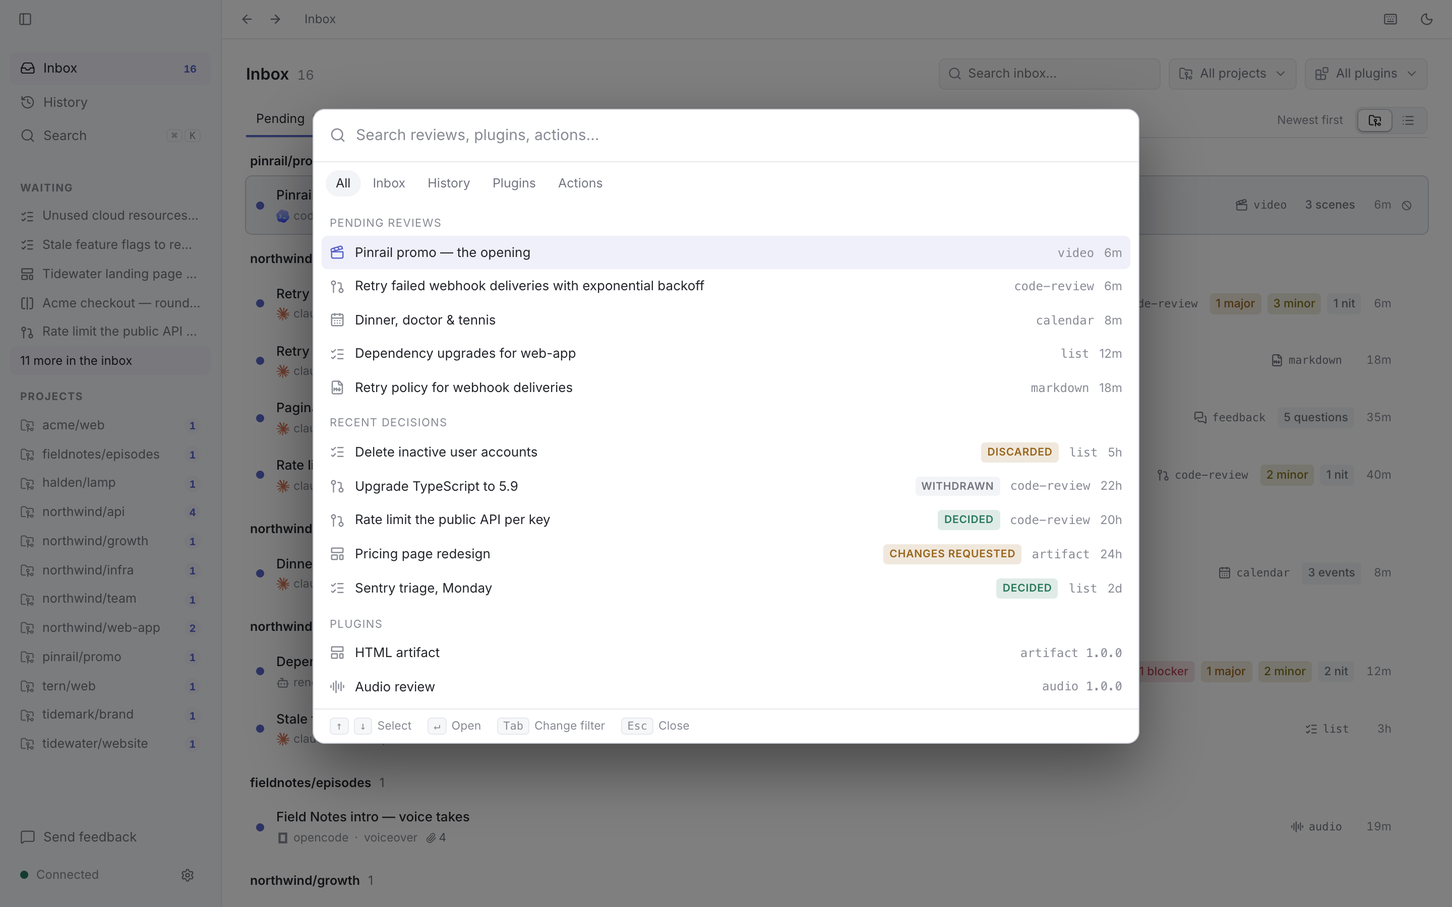
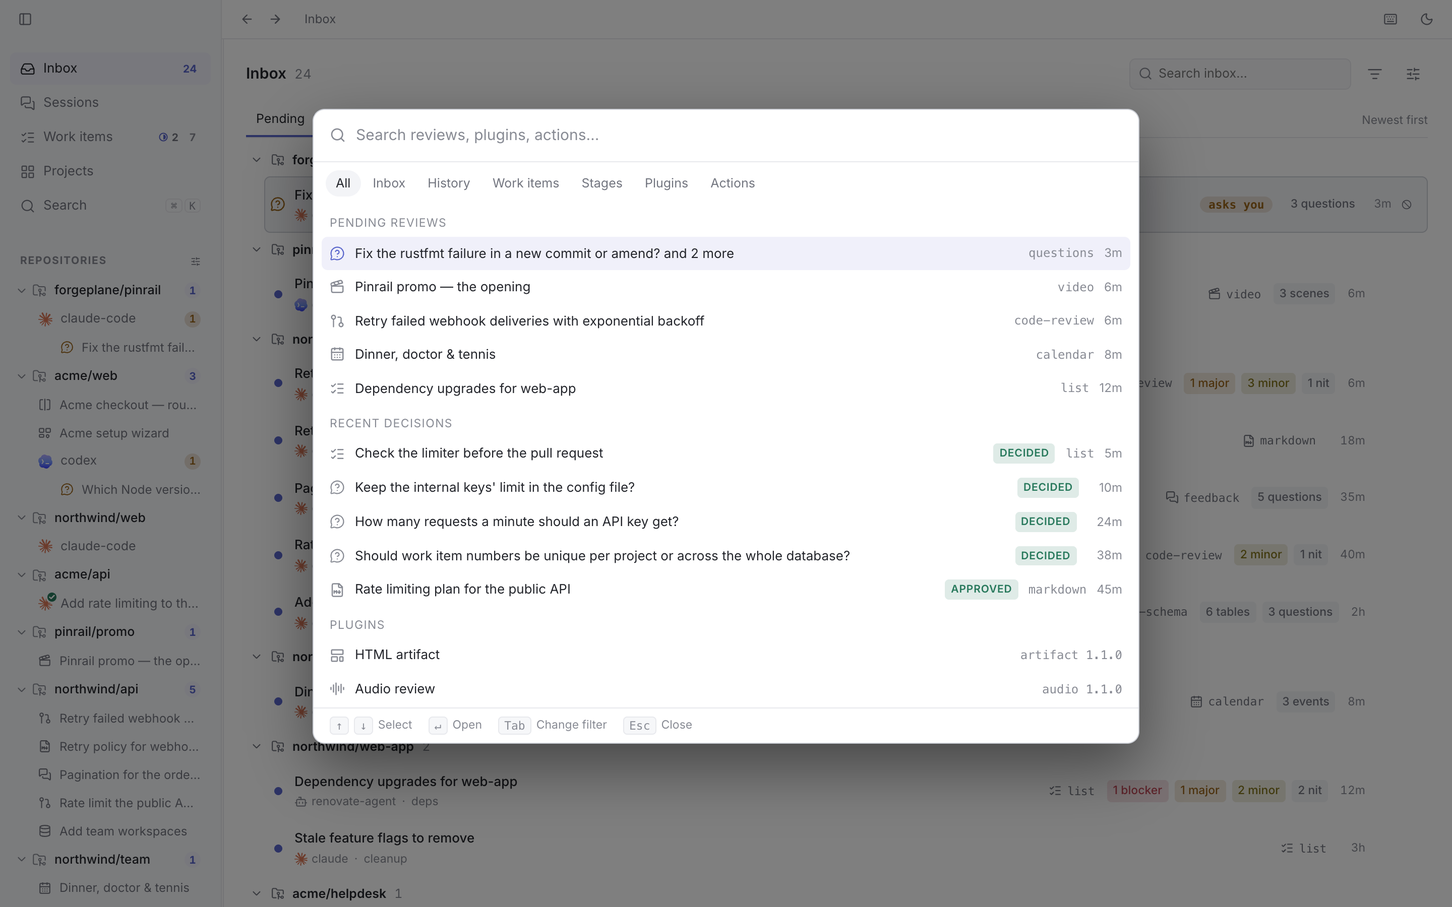
Document sessions and work items as concepts
Add Sessions and Work items to the docs' Concepts, a section on
questions to the Reviews page, the quick add dialog and a session's
details to the how-to pages, and the screenshots they show. The sample
session gains a plan stage, a question about a diff and decided reviews.

The CLI page no longer says the person can message an agent from its
thread: messages come from comments on the work items a session holds.

Assisted-by: Claude Code (Claude Opus 5.5)

diff --git a/docs/using/work-items.md b/docs/using/work-items.md
@@ -3,7 +3,7 @@ title: Work items
 description: "Record the tasks you and your agents work on, with sub-items and dependencies, and let agents take the next one that is ready."
 ---
 
-A work item is a task recorded in Pinrail, such as a feature, a bug or a step of a plan. You add work items in the app, and agents add, take and close them with `pinrail items`. Each item belongs to a repository, and can have sub-items and depend on other items. Pinrail works out which items are ready, so that an agent can take the next one without asking you.
+A work item is a task recorded in Pinrail, such as a feature, a bug or a step of a plan. You add work items in the app, and agents add, take and close them with `pinrail items`. Each item belongs to a repository, and can have sub-items and depend on other items. Pinrail works out which items are ready, so that an agent can take the next one without asking you. [Work items](/docs/concepts/work-items/), under Concepts, explains how items, sessions and reviews connect.
 
 ## Keys
 
@@ -30,7 +30,7 @@ Open **Work items** in the sidebar. The count beside it is the number of items t
 
 ![The Work items page: a plan nested under its item, with one step done, one in progress and two waiting for it, and the step in progress open in the panel beside the list.](screenshot:work-items "Work items, with one open in the panel.")
 
-- **Add an item** with the field at the top of the page, or press <kbd>C</kbd>. Type its title, and choose its repository and, if you like, its parent. Press <kbd>Enter</kbd> to add it. From any other page, press <kbd>⌘⇧C</kbd>, or choose *Add a work item* in the command palette, to add one in a dialog without leaving the page. The dialog starts on the repository of the session or the review you are looking at, and a message names the item once it is added. <kbd>⌘Enter</kbd> adds it and keeps the dialog open for the next one.
+- **Add an item** with the field at the top of the page, or press <kbd>C</kbd>. Type its title, and choose its repository and, if you like, its parent. Press <kbd>Enter</kbd> to add it. From any other page, use the [quick add dialog](#add-an-item-from-any-page).
 - **Filter** the list with the **Filter** menu at the right of the header: by status, by a project or a repository, and by who created the item. *Open* shows the items that are open or in progress, and *Closed sub-items* adds the done and cancelled sub-items of the parents listed, after their open ones. **Waiting on you** shows the items with a review or a question that waits for you. Each filter that is on shows as a chip under the header: click its × to remove it, or **Clear filters** to remove them all. Search titles and descriptions with the search field, or press <kbd>/</kbd> to go to it, and press <kbd>Esc</kbd> to leave it and use the keys on the results. The page keeps its filters when you go to another page and come back.
 - **Display** the list as **Display options** says. *Grouping* groups the items by project or by repository, or shows them as one list. *Ordering* lists them oldest or newest first, recently updated first, by status, or by title, and orders sub-items under their parent the same way. *Sub-items* shows them nested under their parent, or each as a row of its own.
 - **Make an item a sub-item** by dragging it onto another item. An item dropped on an item of another repository stays in its own repository and keeps its key.
@@ -42,6 +42,19 @@ On the selected item, <kbd>S</kbd> claims it for you or releases it, <kbd>D</kbd
 Put an item on hold to keep it without starting it. No agent takes it, nor any of its sub-items: `pinrail items next` passes over them, and an agent that tries to claim one is told to ask you. An item on hold still blocks the items that depend on it. It is listed with the open items, dimmed; choose *On hold* in the status filter to list only the items on hold. Putting an item on hold releases it and each of its sub-items that is in progress, and each agent working on one is told to stop the next time it runs `pinrail status`. When there is such work, Pinrail lists it and asks you first. Only you put an item on hold or take it off.
 
 Queue the items you want done first, in the order you want them. Press <kbd>Q</kbd> on an item, or click *Queue* in its panel, to add it to the end of the queue, and press <kbd>Q</kbd> again to take it out. Each queued item shows the queue icon and its place in its row: press <kbd>⇧↑</kbd> and <kbd>⇧↓</kbd> on a queued item to move it up or down the queue. `pinrail items next` offers the first ready item of the queue in the agent's repository before any other, after the sub-items of what the agent already holds. An item stays queued while an agent works on it, and leaves the queue when it is done, cancelled or put on hold. There is one queue across all your repositories, and only you change it.
+
+## Add an item from any page
+
+When something comes up while you read a review or follow a session, add it as a work item without leaving the page. Press <kbd>⌘⇧C</kbd>, or choose *Add a work item* in the command palette, <kbd>⌘K</kbd>.
+
+![The quick add dialog over a session's thread: a title, the repository of the session, no parent yet, and a description that names another item by its key.](screenshot:quick-add "Adding a work item while you follow a session.")
+
+- **Title:** what needs to be done, in one line.
+- **Repository:** the repository of the session or the review you are looking at, else the one the page is filtered to, else the one you used last. Choose another from the list.
+- **Parent:** the item it is part of, if any.
+- **Description:** optional, in Markdown. Paste or drop files to attach them, and type `#` to link another item.
+
+Press <kbd>Enter</kbd> in the title, or click the arrow, to add the item and close the dialog. <kbd>⌘Enter</kbd> adds it and keeps the dialog open for the next one. <kbd>Tab</kbd> moves between the title and the description, and <kbd>⇧Tab</kbd> in the title switches to the next repository. In the description, <kbd>Enter</kbd> starts a new line: <kbd>⌘Enter</kbd> adds the item, and <kbd>⌘⇧Enter</kbd> adds it and keeps the dialog open. A message names the item once it is added, and <kbd>Esc</kbd> closes the dialog without adding anything.
 
 ## An item's panel
 

diff --git a/docs/concepts/work-items.md b/docs/concepts/work-items.md
@@ -1,0 +1,95 @@
+---
+title: Work items
+description: "What a work item is, how it moves from open to done, and how agents, sessions and reviews connect to it."
+---
+
+A work item is a task recorded in Pinrail, such as a feature, a bug or a step of a plan. You and your agents share the same items: you add and arrange them in the app, and agents add, take and close them with `pinrail items`. Pinrail works out which items are ready, so that an agent can take the next one without asking you.
+
+:::tip[Built for agents]
+Work items are not a general task manager. They have no tags, no boards, no deadlines and no priority field. They are task tracking built for agents first: each item has dependencies and sub-items that decide when it can start, and its state changes follow strict rules that Pinrail enforces for agents and people alike. An item cannot be done while a sub-item is open, an agent cannot close an item while a review of it waits for you, and no dependency may close a circle. An agent can therefore work through the items on its own and leave a record you can trust.
+:::
+
+## What a work item holds
+
+| Part | What it is |
+|---|---|
+| **Key** | The repository's prefix and a number, such as `PIN-42`. It names the item everywhere: in the CLI, in commit messages and in any text Pinrail shows. |
+| **Title and description** | What the work is, in Markdown, with any files attached to it, such as screenshots or logs. |
+| **Repository** | The repository the item belongs to, which numbers it. Through the repository, the item belongs to its [project](/docs/using/projects/). |
+| **Parent and sub-items** | An item can be part of a larger one. A parent waits for its sub-items. |
+| **Dependencies** | The items that must be done before this one can start. |
+| **Holder** | The agent session, or you, working on the item now. |
+| **Reviews and questions** | What was sent to you about the item, in the inbox and in the item's panel. |
+| **Comments and activity** | Notes from you and from agents, and every change, with who made it and when. |
+
+## How a work item moves
+
+An item is open until someone claims it, and ends done or cancelled. Either can be opened again. You can also close an open item without claiming it, and putting an item on hold releases it if it was in progress.
+
+```mermaid title="The states of a work item"
+stateDiagram-v2
+  direction LR
+  state "Open" as open
+  state "In progress" as progress
+  state "On hold" as hold
+  state "Done or cancelled" as closed
+  [*] --> open: added
+  open --> progress: claimed
+  progress --> open: released
+  open --> hold: you put it on hold
+  hold --> open: you take it off hold
+  progress --> closed: closed
+  closed --> open: opened again
+```
+
+| State | What it means |
+|---|---|
+| **Open** | Nobody is working on it. |
+| **In progress** | A session, or you, has claimed it. |
+| **On hold** | Kept for later. No agent takes it or any of its sub-items, and only you put it on hold or take it off. |
+| **Done** | The work is finished. |
+| **Cancelled** | It will not be done. Its open sub-items are cancelled with it. |
+
+An item can be marked done only when each of its sub-items is done or cancelled. An agent must also wait until no review or question of the item waits for you. When the last open sub-item of a parent closes, and at least one of them is done, the parent is done too, unless someone works on it or something of it waits for you. You can turn this off in *Settings › Work items*.
+
+## Ready and blocked
+
+Pinrail derives two more conditions from the items' dependencies and sub-items:
+
+- An open item is **ready** when every item it depends on is done and it has no open sub-item.
+- An item that waits for another is **blocked**. A parent is blocked by its open sub-items in the same way.
+
+An item on hold still blocks the items that depend on it. Pinrail refuses a dependency or a parent that would make items wait for each other in a circle.
+
+## Who holds an item
+
+An agent claims an item with `pinrail items next --claim` or `pinrail items edit <key> --claim`, and you claim one in the app.
+
+:::tip[One holder at a time]
+An item has a single holder: one agent session, or you. Nobody can claim an item that someone else is working on. Pinrail refuses the claim and names who holds it, such as *PIN-42 is claimed by claude-code (session 7f3a…)*, and `pinrail items next` offers only items nobody holds. Two agents therefore never work on the same item by accident. Taking an item over is a deliberate step: an agent must ask for it with `pinrail items edit <key> --claim --take`, and you take one over from the app. An agent also cannot close an item that another session holds.
+:::
+
+While a session holds an item:
+
+- the reviews and questions the session sends belong to the item, and a session that holds several names the ones each is for with `--item`;
+- the item's panel lists the session, and the session's thread shows the agent's changes to the item and its comments on it;
+- a comment you add to the item reaches the agent the next time it runs `pinrail status`.
+
+Putting an item on hold releases it and its sub-items, and each agent working on one is told to stop. A session that Pinrail deletes with the history, as *Keep reviews for* in *Settings › Data* says, releases what it held.
+
+## Which item comes next
+
+`pinrail items next` offers the next ready item of the agent's repository, in this order:
+
+1. a ready sub-item of an item the session already holds;
+2. the first ready item of your queue;
+3. the item that unblocks the most other items;
+4. the oldest item.
+
+There is no priority field. To choose what an agent takes next, queue the item: the queue is one list across all your repositories, and only you change it.
+
+## Where to go next
+
+- [Work items](/docs/using/work-items/): the Work items page, an item's panel, and the keys to use.
+- [Agents › CLI](/docs/agents/cli/): the `pinrail items` commands an agent uses.
+- [Reviews](/docs/concepts/reviews/): what a review is, and how it ends.

diff --git a/docs/concepts/sessions.md b/docs/concepts/sessions.md
@@ -1,0 +1,61 @@
+---
+title: Sessions
+description: "What an agent session is, what it sends you, and how its questions, statuses and notes differ from reviews."
+---
+
+A session is one run of an agent, such as a Claude Code conversation or a Codex session. Everything the agent sends you from that run belongs to it, and Pinrail shows it as one thread, in the order it happened. A session lets you see what an agent is doing and answer it without leaving the context of its work.
+
+:::tip[What a thread records]
+A session's thread is not a transcript of the agent's conversation. Pinrail records only the moments that carry information for you: the questions the agent asks, the work it submits for review, the stage it starts and finishes, a short status as it goes, and the notes it chooses to send. Everything else the agent writes stays in its terminal. With several agents at work, the threads give you an overview of what each is doing and what waits for you, without reading every line they produce.
+:::
+
+## How Pinrail knows the session
+
+The `pinrail` command reads the agent and its session from the agent's environment, such as `CLAUDE_CODE_SESSION_ID` for Claude Code, and sends them with each review, question and status. The agent does nothing to name its session. A review or a question sent from no agent, such as from a CI job, belongs to no session and shows only in the inbox.
+
+## What a session sends you
+
+| What | Sent with | Waits for you | What the agent gets back |
+|---|---|---|---|
+| **Questions** | `pinrail ask` | Yes, in the inbox | Your answers, your notes and your comment |
+| **Reviews** | `pinrail submit` | Yes, in the inbox | Your decision, as the plugin defines it |
+| **Statuses** | `pinrail status` | No | Nothing |
+| **Notes** | `pinrail status --note` | No | Nothing |
+
+Questions and reviews ask for your answer: the agent waits until you give it. Statuses and notes only tell you something.
+
+## Questions
+
+A question is a short request for an answer the agent needs before it can go on, such as a choice, a fact or a preference. Under the hood, a set of questions is a [review](/docs/concepts/reviews/) of its own kind: it waits in the inbox, ends in the same ways, and the command that asked it exits with the same codes. It needs no plugin, and you answer it in the session's thread rather than in a plugin's view.
+
+The questions an agent asks together are one set, and you send their answers together. You can answer in your own words, add a note to any answer, and add a comment on the whole set. A question you leave alone goes back as not answered, which is not a decision. Declining the set tells the agent to stop, as discarding a review does.
+
+## Statuses and stages
+
+A status is one line that says what the agent is doing, such as *Running the integration tests*. It shows in the thread at the moment it was sent, and the newest status shows on the Sessions page and in the sidebar.
+
+An agent groups its work into **stages**. It starts a stage with `pinrail status --start`, which names it, and the stage becomes the session's title. It ends the stage with `pinrail status --done` once the work is approved and delivered, or when nothing needs a review. A session can have several stages, one after the other.
+
+## Notes
+
+A note is a message in Markdown that tells you something and asks nothing, such as a summary of a stage, a decision the agent took on its own, or what an investigation found. It can carry files, such as a chart or a log, and shows images in place.
+
+## Sessions and work items
+
+A session can hold [work items](/docs/concepts/work-items/). While it holds them, the reviews and questions it sends belong to them, and its thread shows the changes it makes to items and its comments on them. A comment you add to an item the session holds reaches the agent the next time it runs `pinrail status`.
+
+## The life of a session
+
+A session appears with the first thing its agent sends, and stays on the Sessions page and in the sidebar until you archive it. Archiving deletes nothing: the session leaves the lists, and its questions and reviews stay in the inbox while they wait. A session whose agent sends something again comes back by itself.
+
+When you set *Keep reviews for* in *Settings › Data*, Pinrail deletes old reviews from the history, and with them each session that has no review left and no activity in that time. Deleting a session releases the work items it held.
+
+:::note[Current limitations]
+You cannot drive an agent from Pinrail. You start a session, give the agent its instructions and talk to it in the agent's own terminal or app, as before. Pinrail shows what the session sends and takes your answers to its questions and reviews, but it has no box for a new prompt to the agent. A comment on a work item the session holds reaches the agent only the next time it runs `pinrail status`.
+:::
+
+## Where to go next
+
+- [Questions and sessions](/docs/using/sessions/): answering questions, the thread, and the keys to use.
+- [Agents › CLI](/docs/agents/cli/): `pinrail ask` and `pinrail status`, with every option.
+- [Reviews](/docs/concepts/reviews/): what a review is, and how it ends.

diff --git a/docs/using/sessions.md b/docs/using/sessions.md
@@ -3,7 +3,7 @@ title: Questions and sessions
 description: "How you answer the questions an agent asks, the thread of everything one agent session sent you, and the statuses that show what the agent is doing."
 ---
 
-An agent asks you short questions with `pinrail ask`, and reports what it is doing with `pinrail status`. Both belong to the agent's session: one run of the agent, such as a Claude Code conversation. Pinrail shows each session as a thread, with its questions, its reviews and its statuses in the order they happened.
+An agent asks you short questions with `pinrail ask`, and reports what it is doing with `pinrail status`. Both belong to the agent's session: one run of the agent, such as a Claude Code conversation. Pinrail shows each session as a thread, with its questions, its reviews and its statuses in the order they happened. [Sessions](/docs/concepts/sessions/), under Concepts, explains what a session holds.
 
 ![An agent session's thread: three questions waiting, the first answered with a note, and the box for a comment to the agent at the bottom.](screenshot:ask-thread "Questions waiting in a session's thread.")
 
@@ -31,11 +31,23 @@ Once you have sent them, the answers show under their questions, with your notes
 
 ## Sessions
 
-Each session's thread lists what the agent sent from it, oldest first: its questions, its reviews, which open when you click them, and its statuses. A review the agent revised shows once, where its first round was sent, with its newest round and the round's number, such as *round 2 of 2*. Where the agent sent a later round, a *Revised* line names the review and says when the round waits for you. Click the line to scroll to the review. Where the agent withdrew a review, a line names the review and gives the agent's reason. The header's title is the stage of work the agent is on, when it named one, with the agent, the project and the branch under it. The header also shows how many questions and reviews the session holds, and what waits for you. The panel at the right lists what waits on you, and the session's details: the agent, the session id, the project, the branch, the folder the agent works in and its last activity.
+Each session's thread lists what the agent sent from it, oldest first: its questions, its reviews, which open when you click them, and its statuses. A review the agent revised shows once, where its first round was sent, with its newest round and the round's number, such as *round 2 of 2*. Where the agent sent a later round, a *Revised* line names the review and says when the round waits for you. Click the line to scroll to the review. Where the agent withdrew a review, a line names the review and gives the agent's reason. The header's title is the stage of work the agent is on, when it named one, with the agent, the project and the branch under it. The header also shows how many questions and reviews the session holds, and what waits for you.
 
-The panel lists the session's starred reviews under *Starred*, newest first, and marks a starred review with a star wherever it is listed. It also lists the session's reviews that have ended, with their outcomes, folded under *Reviews* until you open it. Click one to open it.
+### A session's details
 
-To hide the panel at the right, or show it again, use the button at the right of the header, or press <kbd>⌘⇧B</kbd>. Drag its left edge to resize it. Pinrail remembers both.
+The panel at the right of a session's thread sums up the session, so that you can see where it stands without reading the whole thread.
+
+![A session's page: the thread with a question about a diff, a note with a chart and the agent saying it has finished, and beside it the session's details, with its work items, two stages and its decided reviews.](screenshot:session-details "A session's thread, and its details beside it.")
+
+- **Waiting on you:** the questions and reviews of the session that wait for your answer.
+- **Waiting on the agent:** messages for the agent, such as your comments on its work items, until the agent next runs `pinrail status` and receives them.
+- **Work items:** the items the session holds or worked on, with their status. Click one to open it beside the thread.
+- **Starred:** the session's starred reviews, newest first. A starred review shows a star wherever it is listed.
+- **Stages:** each stage the agent started, oldest first, with how long it took. Point at a stage to see when it started and the reviews sent during it, and click it to go to its start in the thread.
+- **Reviews:** the reviews of the session that have ended, with their outcomes, folded until you open it. Click one to open it.
+- **Session:** the agent, the session id, the project, the branch, the folder the agent works in and the last activity.
+
+Hide or show the panel with the button at the right of the header, or press <kbd>⌘⇧B</kbd>. Drag its left edge to resize it. Pinrail remembers both.
 
 A question's thread links to its session's page with *session* and the id in its header. A review sent from a session has a button in its header, on its page and in the side panel, that opens the session's thread.
 

diff --git a/docs/concepts/reviews.md b/docs/concepts/reviews.md
@@ -52,6 +52,10 @@ An ended review never changes again. It moves from the inbox to your history, re
 
 Pinrail records where each decision, discard and withdrawal was made. One made in the app is recorded as yours. One made with `pinrail decide` or `pinrail discard`, or by another program through the local API, is not: it is recorded as made by the agent the command ran under, by the name the program gave, or by nobody. It says how it was made on the review, in the history and in what the agent receives, such as "Decided by claude-code at 09:14 UTC, with `pinrail decide`". When the command ran in the same agent session that submitted the review, the review page shows a warning: an agent should never decide its own review. A withdrawal is recorded the same way, with the agent that withdrew the review. The history shows who withdrew or discarded a review under the time, with the reason they gave in a tooltip. A round withdrawn because a newer round superseded it is recorded as withdrawn by the agent that submitted the newer round. Any program on your computer can claim to be the app, so this is a record of what the program said, not proof.
 
+## Questions
+
+A question that an agent asks with `pinrail ask` is a review of its own kind. It waits in the inbox, ends in the same ways, and the command that asked it exits with the same codes. It needs no plugin: you answer it in the agent's session thread, and declining it ends it as discarding a review does. See [Sessions](/docs/concepts/sessions/).
+
 ## Rounds
 
 Often you want some changes before you approve. The agent makes the changes and asks again, submitting a new review that **revises** the first. That is a new round.

diff --git a/docs/agents/cli.md b/docs/agents/cli.md
@@ -159,10 +159,12 @@ No open stage. Start one with pinrail status --start before new work.
 
 ### Messages from the person
 
-The person can send the agent messages from its session's thread. A message waits until the agent next runs `pinrail status`, of any kind, which prints every waiting message, oldest first, and marks it delivered. Each message is printed once:
+The person reaches an agent through the work items its session holds. A comment the person adds to such an item, or the person putting it on hold, is a message to the session. A message waits until the agent next runs `pinrail status`, of any kind, which prints every waiting message, oldest first, and marks it delivered. Each message is printed once:
 
 ```text
 Message from Sam, sent 2026-11-02 10:04:
+Comment on PIN-42 Load themes:
+
 Use the v2 endpoint, the v1 one is going away.
 ```
 
